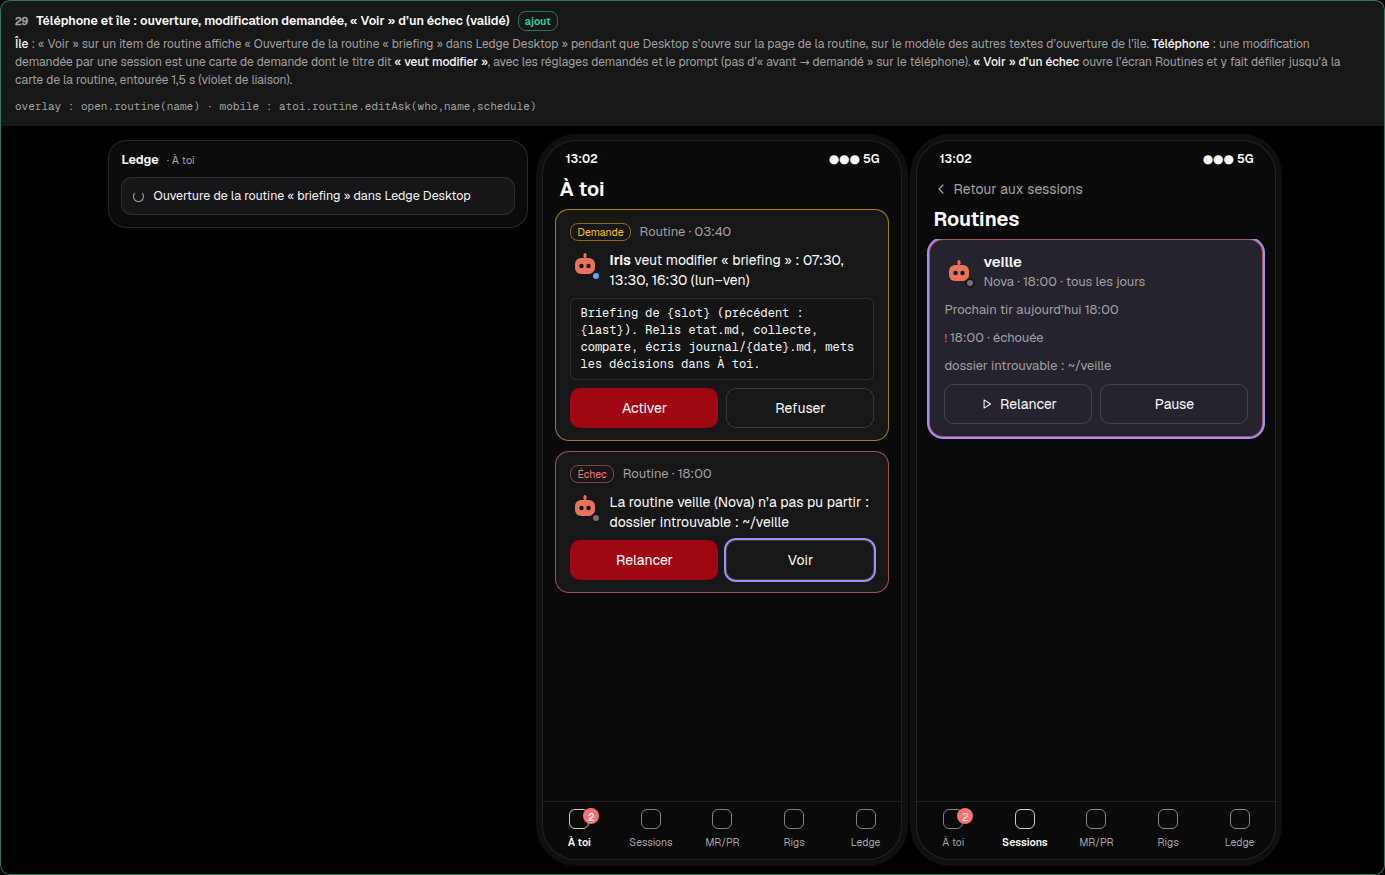
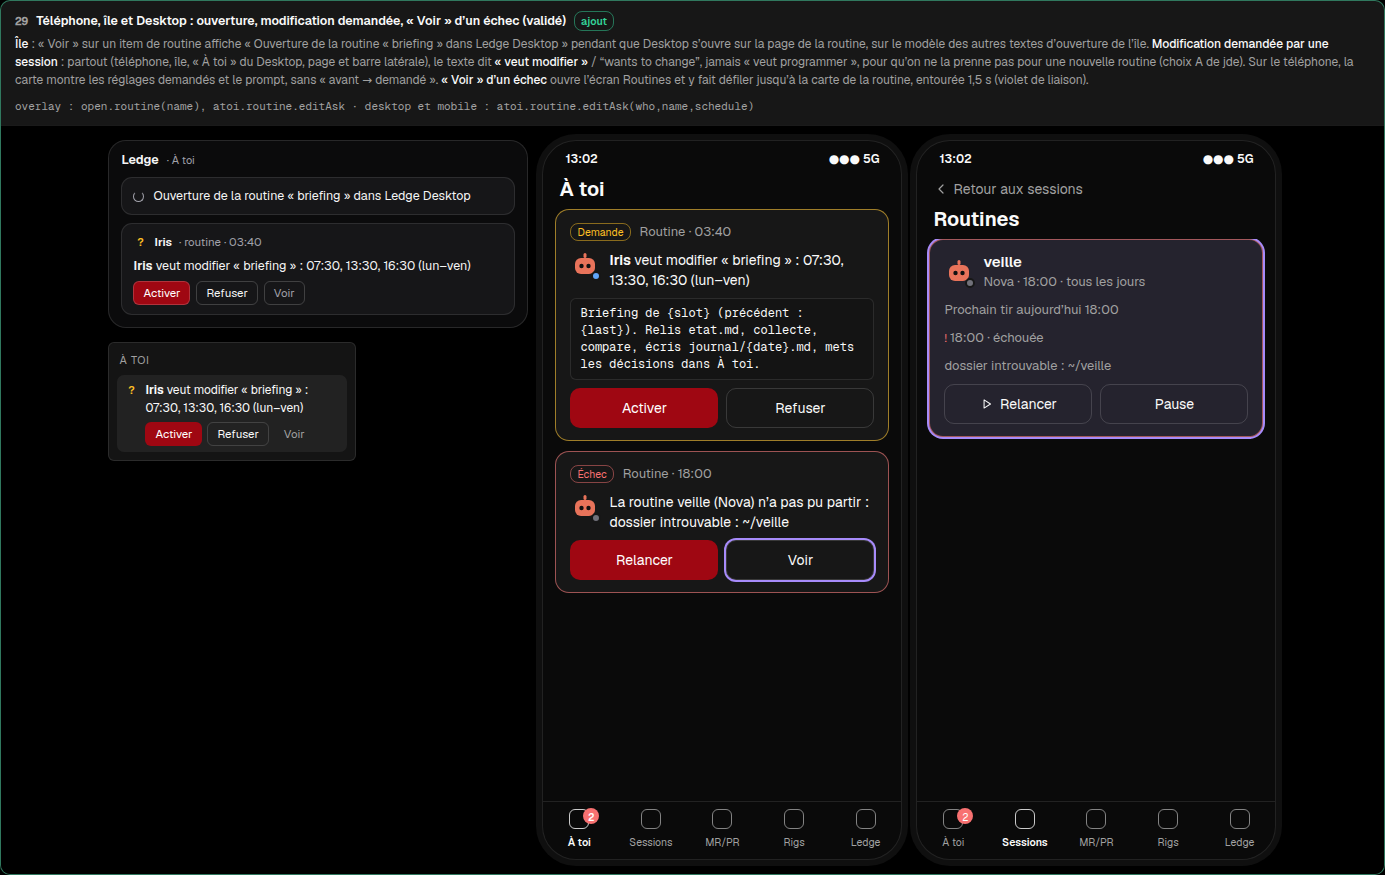
docs(mockups): Routines — « veut modifier » everywhere a session asks to change a routine
jde's choice A (2026-11-23): the phone, the island and the Desktop's « À toi »
(page and sidebar) all say « Iris veut modifier « briefing » : … » / “Iris
wants to change …” for an edit request; card 29 draws the island and the
Desktop sidebar too.

diff --git a/docs/mockups/ledge-routines.html b/docs/mockups/ledge-routines.html
@@ -1074,11 +1074,13 @@ function precPhoneCards(){
   const list = `<div class="phone">${stat}<div class="hd"><span class="back">${I.back(16)}${x.pBack}</span></div><div class="hd" style="padding-top:0"><h3>${x.routines}</h3></div><div class="cnt">
     <div class="pcard failed" style="box-shadow:0 0 0 2px var(--note);background:color-mix(in srgb,var(--note) 10%,var(--card))"><div class="top">${bot('#e8735a','off')}<div style="flex:1"><b>veille</b><div class="meta">Nova · 18:00 · ${x.daily}</div></div></div><div class="meta">${x.pNext(x.today+' 18:00')}</div><div class="meta"><span class="mk bad">!</span> ${x.lastAt('18:00', x.out.failed)}</div><div class="meta reason">${r.reason}</div><div class="acts"><button class="btn">${I.play(14)}${x.retry}</button><button class="btn">${x.pause}</button></div></div>
     </div>${tabbar(1)}</div>`;
-  const island = `<div class="island" style="align-self:flex-start"><div class="ih"><b>Ledge</b><span>· ${x.atoi}</span></div><div class="it" style="flex-direction:row;align-items:center;gap:9px"><span class="spin" style="border-color:#a1a1aa;border-top-color:transparent"></span><span>${P.open}</span></div></div>`;
-  return [{tag:'add', title:'Téléphone et île : ouverture, modification demandée, « Voir » d’un échec (validé)', wide:true,
-    why:'<b>Île</b> : « Voir » sur un item de routine affiche « Ouverture de la routine « briefing » dans Ledge Desktop » pendant que Desktop s’ouvre sur la page de la routine, sur le modèle des autres textes d’ouverture de l’île. <b>Téléphone</b> : une modification demandée par une session est une carte de demande dont le titre dit <b>« veut modifier »</b>, avec les réglages demandés et le prompt (pas d’« avant → demandé » sur le téléphone). <b>« Voir » d’un échec</b> ouvre l’écran Routines et y fait défiler jusqu’à la carte de la routine, entourée 1,5 s (violet de liaison).',
-    keys:'overlay : open.routine(name) · mobile : atoi.routine.editAsk(who,name,schedule)',
-    scene: island + atoi + list}];
+  const island = `<div class="island" style="align-self:flex-start"><div class="ih"><b>Ledge</b><span>· ${x.atoi}</span></div><div class="it" style="flex-direction:row;align-items:center;gap:9px"><span class="spin" style="border-color:#a1a1aa;border-top-color:transparent"></span><span>${P.open}</span></div>
+    <div class="it"><div class="who"><span class="mk ask">?</span><b>Iris</b><span>· ${x.pRoutine.toLowerCase()} · 03:40</span></div><span>${P.edit}</span><div class="acts"><button class="btn pri">${x.activate}</button><button class="btn">${x.refuse}</button><button class="btn ghost">${P.see}</button></div></div></div>
+    <div class="side" style="align-self:flex-start"><span class="h">${x.atoi}</span><div class="row"><span class="mk ask">?</span><div>${P.edit}<div class="acts"><button class="btn pri">${x.activate}</button><button class="btn">${x.refuse}</button><button class="btn ghost">${P.see}</button></div></div></div></div>`;
+  return [{tag:'add', title:'Téléphone, île et Desktop : ouverture, modification demandée, « Voir » d’un échec (validé)', wide:true,
+    why:'<b>Île</b> : « Voir » sur un item de routine affiche « Ouverture de la routine « briefing » dans Ledge Desktop » pendant que Desktop s’ouvre sur la page de la routine, sur le modèle des autres textes d’ouverture de l’île. <b>Modification demandée par une session</b> : partout (téléphone, île, « À toi » du Desktop, page et barre latérale), le texte dit <b>« veut modifier »</b> / “wants to change”, jamais « veut programmer », pour qu’on ne la prenne pas pour une nouvelle routine (choix A de jde). Sur le téléphone, la carte montre les réglages demandés et le prompt, sans « avant → demandé ». <b>« Voir » d’un échec</b> ouvre l’écran Routines et y fait défiler jusqu’à la carte de la routine, entourée 1,5 s (violet de liaison).',
+    keys:'overlay : open.routine(name), atoi.routine.editAsk · desktop et mobile : atoi.routine.editAsk(who,name,schedule)',
+    scene: `<div class="col" style="gap:14px">${island}</div>` + atoi + list}];
 }
 
 function render(){
